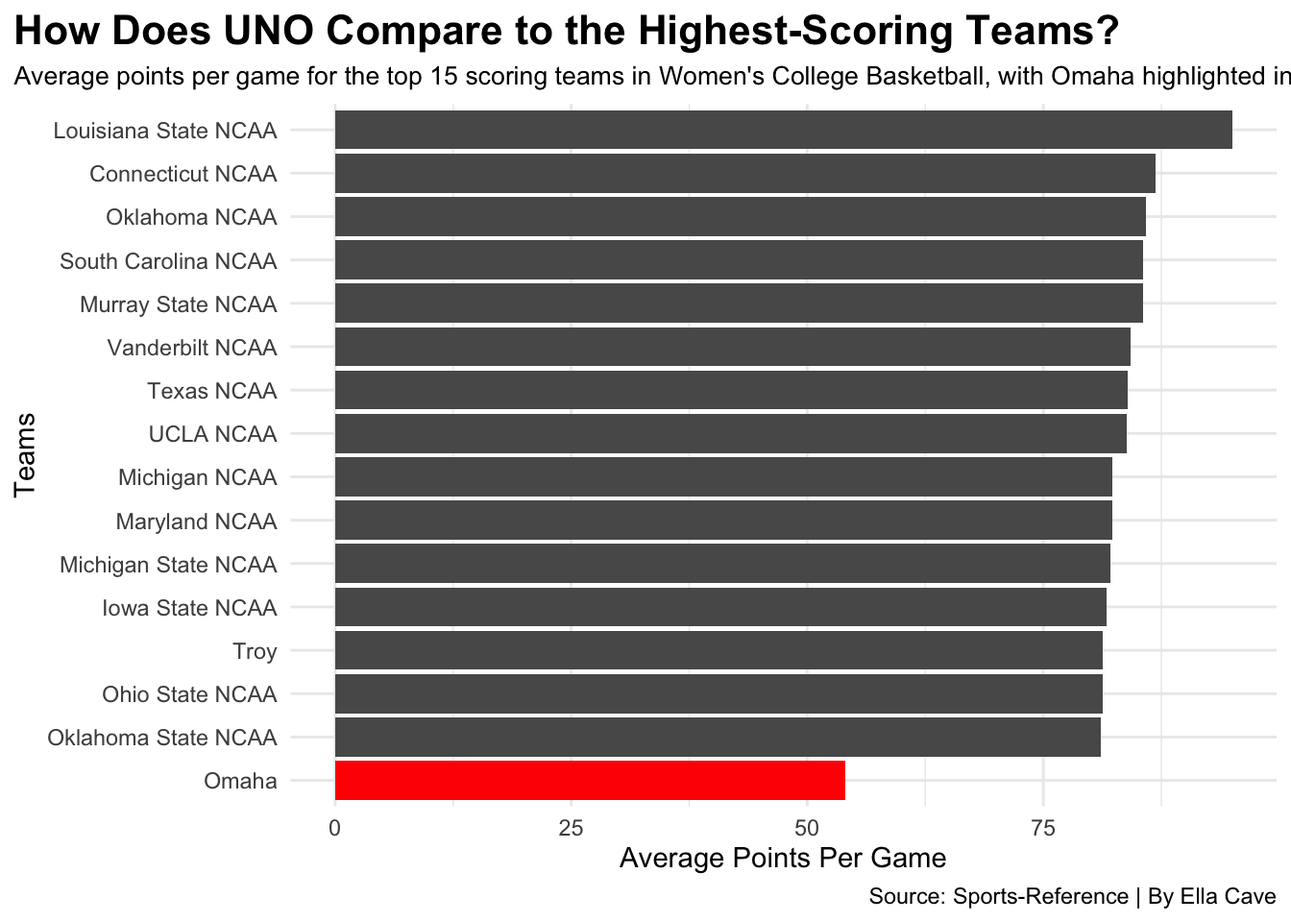
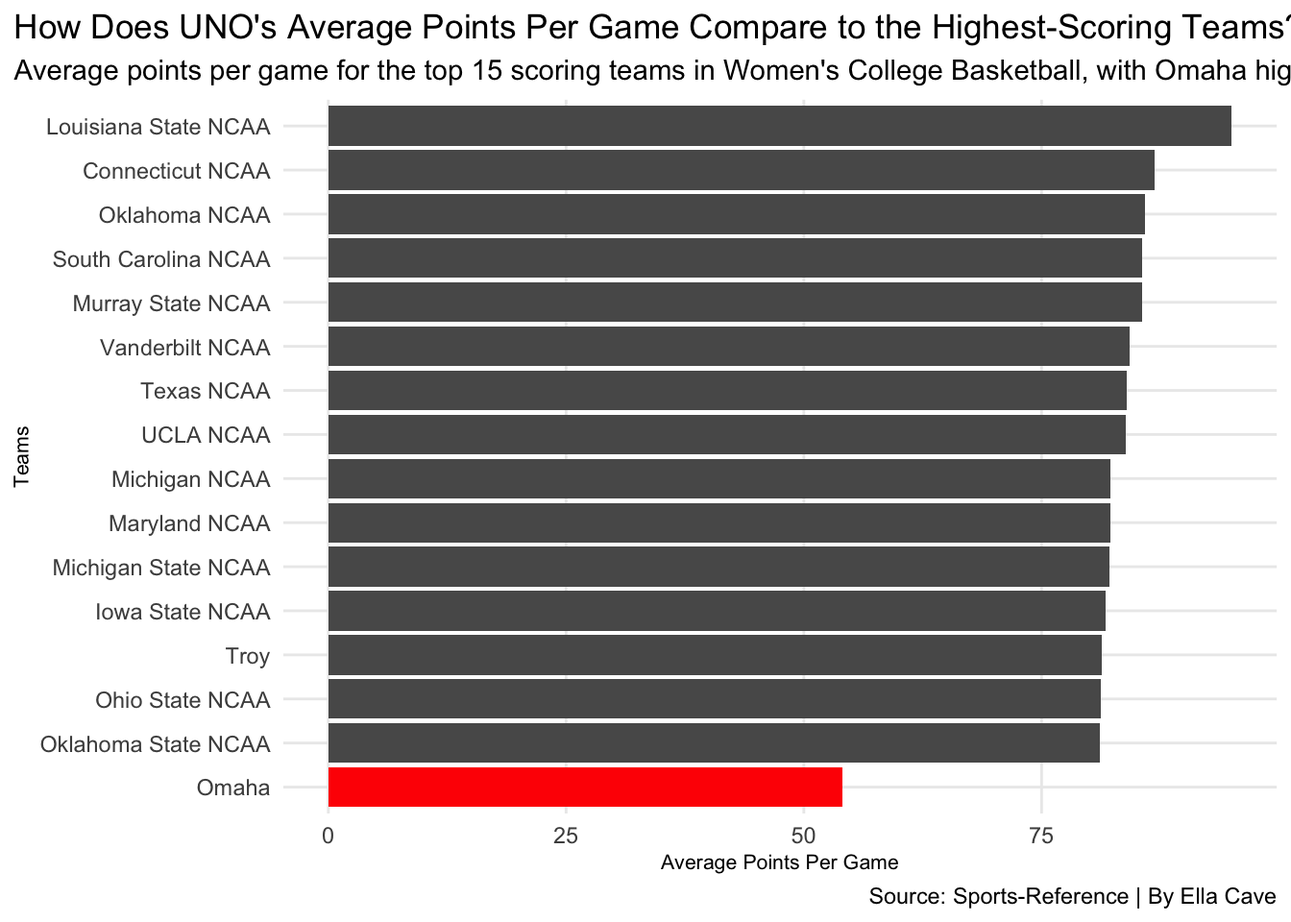
changed2

diff --git a/posts/omaha-womens-basketball/index.html b/posts/omaha-womens-basketball/index.html
@@ -387,11 +387,16 @@ pre > code.sourceCode > span > a:first-child::before { text-decoration: underlin
 ✖ dplyr::lag()    masks stats::lag()
 ℹ Use the conflicted package (&lt;http://conflicted.r-lib.org/&gt;) to force all conflicts to become errors</code></pre>
 </div>
+<details class="code-fold">
+<summary>Code</summary>
+<div class="code-copy-outer-scaffold"><div class="sourceCode cell-code" id="cb3"><pre class="sourceCode r code-with-copy"><code class="sourceCode r"><span id="cb3-1"><a href="#cb3-1" aria-hidden="true" tabindex="-1"></a><span class="fu">library</span>(ggalt)</span>
+<span id="cb3-2"><a href="#cb3-2" aria-hidden="true" tabindex="-1"></a><span class="fu">library</span>(ggrepel)</span></code></pre></div><button title="Copy to Clipboard" class="code-copy-button"><i class="bi"></i></button></div>
+</details>
 </div>
 <div class="cell">
 <details class="code-fold">
 <summary>Code</summary>
-<div class="code-copy-outer-scaffold"><div class="sourceCode cell-code" id="cb3"><pre class="sourceCode r code-with-copy"><code class="sourceCode r"><span id="cb3-1"><a href="#cb3-1" aria-hidden="true" tabindex="-1"></a>wcbb_25_26 <span class="ot">&lt;-</span> <span class="fu">read_csv</span>(<span class="st">"data/wcbb_stats_25_26.csv"</span>)</span></code></pre></div><button title="Copy to Clipboard" class="code-copy-button"><i class="bi"></i></button></div>
+<div class="code-copy-outer-scaffold"><div class="sourceCode cell-code" id="cb4"><pre class="sourceCode r code-with-copy"><code class="sourceCode r"><span id="cb4-1"><a href="#cb4-1" aria-hidden="true" tabindex="-1"></a>wcbb_25_26 <span class="ot">&lt;-</span> <span class="fu">read_csv</span>(<span class="st">"data/wcbb_stats_25_26.csv"</span>)</span></code></pre></div><button title="Copy to Clipboard" class="code-copy-button"><i class="bi"></i></button></div>
 </details>
 <div class="cell-output cell-output-stderr">
 <pre><code>Rows: 363 Columns: 33
@@ -407,7 +412,7 @@ dbl (32): Rk, Games, Overall_Wins, Overall_Losses, Overall_Win_pct, SRS, SOS...
 <div class="cell">
 <details class="code-fold">
 <summary>Code</summary>
-<div class="code-copy-outer-scaffold"><div class="sourceCode cell-code" id="cb5"><pre class="sourceCode r code-with-copy"><code class="sourceCode r"><span id="cb5-1"><a href="#cb5-1" aria-hidden="true" tabindex="-1"></a><span class="fu">glimpse</span>(wcbb_25_26)</span></code></pre></div><button title="Copy to Clipboard" class="code-copy-button"><i class="bi"></i></button></div>
+<div class="code-copy-outer-scaffold"><div class="sourceCode cell-code" id="cb6"><pre class="sourceCode r code-with-copy"><code class="sourceCode r"><span id="cb6-1"><a href="#cb6-1" aria-hidden="true" tabindex="-1"></a><span class="fu">glimpse</span>(wcbb_25_26)</span></code></pre></div><button title="Copy to Clipboard" class="code-copy-button"><i class="bi"></i></button></div>
 </details>
 <div class="cell-output cell-output-stdout">
 <pre><code>Rows: 363
@@ -450,40 +455,40 @@ $ PF              &lt;dbl&gt; 561, 562, 666, 568, 567, 715, 439, 560, 371, 492, 
 <div class="cell">
 <details class="code-fold">
 <summary>Code</summary>
-<div class="code-copy-outer-scaffold"><div class="sourceCode cell-code" id="cb7"><pre class="sourceCode r code-with-copy"><code class="sourceCode r"><span id="cb7-1"><a href="#cb7-1" aria-hidden="true" tabindex="-1"></a>wcbb_25_26 <span class="ot">&lt;-</span> wcbb_25_26 <span class="sc">|&gt;</span></span>
-<span id="cb7-2"><a href="#cb7-2" aria-hidden="true" tabindex="-1"></a>  <span class="fu">mutate</span>(</span>
-<span id="cb7-3"><a href="#cb7-3" aria-hidden="true" tabindex="-1"></a>    <span class="at">avg_points =</span> Tm_Points <span class="sc">/</span> Games</span>
-<span id="cb7-4"><a href="#cb7-4" aria-hidden="true" tabindex="-1"></a>  )</span></code></pre></div><button title="Copy to Clipboard" class="code-copy-button"><i class="bi"></i></button></div>
+<div class="code-copy-outer-scaffold"><div class="sourceCode cell-code" id="cb8"><pre class="sourceCode r code-with-copy"><code class="sourceCode r"><span id="cb8-1"><a href="#cb8-1" aria-hidden="true" tabindex="-1"></a>wcbb_25_26 <span class="ot">&lt;-</span> wcbb_25_26 <span class="sc">|&gt;</span></span>
+<span id="cb8-2"><a href="#cb8-2" aria-hidden="true" tabindex="-1"></a>  <span class="fu">mutate</span>(</span>
+<span id="cb8-3"><a href="#cb8-3" aria-hidden="true" tabindex="-1"></a>    <span class="at">avg_points =</span> Tm_Points <span class="sc">/</span> Games</span>
+<span id="cb8-4"><a href="#cb8-4" aria-hidden="true" tabindex="-1"></a>  )</span></code></pre></div><button title="Copy to Clipboard" class="code-copy-button"><i class="bi"></i></button></div>
 </details>
 </div>
 <div class="cell">
 <details class="code-fold">
 <summary>Code</summary>
-<div class="code-copy-outer-scaffold"><div class="sourceCode cell-code" id="cb8"><pre class="sourceCode r code-with-copy"><code class="sourceCode r"><span id="cb8-1"><a href="#cb8-1" aria-hidden="true" tabindex="-1"></a>top_teams <span class="ot">&lt;-</span> wcbb_25_26 <span class="sc">|&gt;</span></span>
-<span id="cb8-2"><a href="#cb8-2" aria-hidden="true" tabindex="-1"></a>  <span class="fu">arrange</span>(<span class="fu">desc</span>(avg_points)) <span class="sc">|&gt;</span></span>
-<span id="cb8-3"><a href="#cb8-3" aria-hidden="true" tabindex="-1"></a>  <span class="fu">slice_head</span>(<span class="at">n=</span><span class="dv">15</span>)</span></code></pre></div><button title="Copy to Clipboard" class="code-copy-button"><i class="bi"></i></button></div>
+<div class="code-copy-outer-scaffold"><div class="sourceCode cell-code" id="cb9"><pre class="sourceCode r code-with-copy"><code class="sourceCode r"><span id="cb9-1"><a href="#cb9-1" aria-hidden="true" tabindex="-1"></a>top_teams <span class="ot">&lt;-</span> wcbb_25_26 <span class="sc">|&gt;</span></span>
+<span id="cb9-2"><a href="#cb9-2" aria-hidden="true" tabindex="-1"></a>  <span class="fu">arrange</span>(<span class="fu">desc</span>(avg_points)) <span class="sc">|&gt;</span></span>
+<span id="cb9-3"><a href="#cb9-3" aria-hidden="true" tabindex="-1"></a>  <span class="fu">slice_head</span>(<span class="at">n=</span><span class="dv">15</span>)</span></code></pre></div><button title="Copy to Clipboard" class="code-copy-button"><i class="bi"></i></button></div>
 </details>
 </div>
 <div class="cell">
 <details class="code-fold">
 <summary>Code</summary>
-<div class="code-copy-outer-scaffold"><div class="sourceCode cell-code" id="cb9"><pre class="sourceCode r code-with-copy"><code class="sourceCode r"><span id="cb9-1"><a href="#cb9-1" aria-hidden="true" tabindex="-1"></a>uno <span class="ot">&lt;-</span> wcbb_25_26 <span class="sc">|&gt;</span> </span>
-<span id="cb9-2"><a href="#cb9-2" aria-hidden="true" tabindex="-1"></a>  <span class="fu">filter</span>(</span>
-<span id="cb9-3"><a href="#cb9-3" aria-hidden="true" tabindex="-1"></a>    School <span class="sc">==</span> <span class="st">"Omaha"</span></span>
-<span id="cb9-4"><a href="#cb9-4" aria-hidden="true" tabindex="-1"></a>  )</span></code></pre></div><button title="Copy to Clipboard" class="code-copy-button"><i class="bi"></i></button></div>
+<div class="code-copy-outer-scaffold"><div class="sourceCode cell-code" id="cb10"><pre class="sourceCode r code-with-copy"><code class="sourceCode r"><span id="cb10-1"><a href="#cb10-1" aria-hidden="true" tabindex="-1"></a>uno <span class="ot">&lt;-</span> wcbb_25_26 <span class="sc">|&gt;</span> </span>
+<span id="cb10-2"><a href="#cb10-2" aria-hidden="true" tabindex="-1"></a>  <span class="fu">filter</span>(</span>
+<span id="cb10-3"><a href="#cb10-3" aria-hidden="true" tabindex="-1"></a>    School <span class="sc">==</span> <span class="st">"Omaha"</span></span>
+<span id="cb10-4"><a href="#cb10-4" aria-hidden="true" tabindex="-1"></a>  )</span></code></pre></div><button title="Copy to Clipboard" class="code-copy-button"><i class="bi"></i></button></div>
 </details>
 </div>
 <div class="cell">
 <details class="code-fold">
 <summary>Code</summary>
-<div class="code-copy-outer-scaffold"><div class="sourceCode cell-code" id="cb10"><pre class="sourceCode r code-with-copy"><code class="sourceCode r"><span id="cb10-1"><a href="#cb10-1" aria-hidden="true" tabindex="-1"></a>top_teams <span class="ot">&lt;-</span> <span class="fu">bind_rows</span>(top_teams, uno)</span></code></pre></div><button title="Copy to Clipboard" class="code-copy-button"><i class="bi"></i></button></div>
+<div class="code-copy-outer-scaffold"><div class="sourceCode cell-code" id="cb11"><pre class="sourceCode r code-with-copy"><code class="sourceCode r"><span id="cb11-1"><a href="#cb11-1" aria-hidden="true" tabindex="-1"></a>top_teams <span class="ot">&lt;-</span> <span class="fu">bind_rows</span>(top_teams, uno)</span></code></pre></div><button title="Copy to Clipboard" class="code-copy-button"><i class="bi"></i></button></div>
 </details>
 </div>
 <div class="cell">
 <details class="code-fold">
 <summary>Code</summary>
-<div class="code-copy-outer-scaffold"><div class="sourceCode cell-code" id="cb11"><pre class="sourceCode r code-with-copy"><code class="sourceCode r"><span id="cb11-1"><a href="#cb11-1" aria-hidden="true" tabindex="-1"></a><span class="fu">ggplot</span>() <span class="sc">+</span> </span>
-<span id="cb11-2"><a href="#cb11-2" aria-hidden="true" tabindex="-1"></a>  <span class="fu">geom_bar</span>(<span class="at">data=</span>top_teams, <span class="fu">aes</span>(<span class="at">x=</span>School))</span></code></pre></div><button title="Copy to Clipboard" class="code-copy-button"><i class="bi"></i></button></div>
+<div class="code-copy-outer-scaffold"><div class="sourceCode cell-code" id="cb12"><pre class="sourceCode r code-with-copy"><code class="sourceCode r"><span id="cb12-1"><a href="#cb12-1" aria-hidden="true" tabindex="-1"></a><span class="fu">ggplot</span>() <span class="sc">+</span> </span>
+<span id="cb12-2"><a href="#cb12-2" aria-hidden="true" tabindex="-1"></a>  <span class="fu">geom_bar</span>(<span class="at">data=</span>top_teams, <span class="fu">aes</span>(<span class="at">x=</span>School))</span></code></pre></div><button title="Copy to Clipboard" class="code-copy-button"><i class="bi"></i></button></div>
 </details>
 <div class="cell-output-display">
 <div>
@@ -496,8 +501,8 @@ $ PF              &lt;dbl&gt; 561, 562, 666, 568, 567, 715, 439, 560, 371, 492, 
 <div class="cell">
 <details class="code-fold">
 <summary>Code</summary>
-<div class="code-copy-outer-scaffold"><div class="sourceCode cell-code" id="cb12"><pre class="sourceCode r code-with-copy"><code class="sourceCode r"><span id="cb12-1"><a href="#cb12-1" aria-hidden="true" tabindex="-1"></a><span class="fu">ggplot</span>() <span class="sc">+</span> </span>
-<span id="cb12-2"><a href="#cb12-2" aria-hidden="true" tabindex="-1"></a>  <span class="fu">geom_bar</span>(<span class="at">data=</span>top_teams, <span class="fu">aes</span>(<span class="at">x=</span>School, <span class="at">weight=</span>avg_points))</span></code></pre></div><button title="Copy to Clipboard" class="code-copy-button"><i class="bi"></i></button></div>
+<div class="code-copy-outer-scaffold"><div class="sourceCode cell-code" id="cb13"><pre class="sourceCode r code-with-copy"><code class="sourceCode r"><span id="cb13-1"><a href="#cb13-1" aria-hidden="true" tabindex="-1"></a><span class="fu">ggplot</span>() <span class="sc">+</span> </span>
+<span id="cb13-2"><a href="#cb13-2" aria-hidden="true" tabindex="-1"></a>  <span class="fu">geom_bar</span>(<span class="at">data=</span>top_teams, <span class="fu">aes</span>(<span class="at">x=</span>School, <span class="at">weight=</span>avg_points))</span></code></pre></div><button title="Copy to Clipboard" class="code-copy-button"><i class="bi"></i></button></div>
 </details>
 <div class="cell-output-display">
 <div>
@@ -510,8 +515,8 @@ $ PF              &lt;dbl&gt; 561, 562, 666, 568, 567, 715, 439, 560, 371, 492, 
 <div class="cell">
 <details class="code-fold">
 <summary>Code</summary>
-<div class="code-copy-outer-scaffold"><div class="sourceCode cell-code" id="cb13"><pre class="sourceCode r code-with-copy"><code class="sourceCode r"><span id="cb13-1"><a href="#cb13-1" aria-hidden="true" tabindex="-1"></a><span class="fu">ggplot</span>() <span class="sc">+</span> </span>
-<span id="cb13-2"><a href="#cb13-2" aria-hidden="true" tabindex="-1"></a>  <span class="fu">geom_bar</span>(<span class="at">data=</span>top_teams, <span class="fu">aes</span>(<span class="at">x=</span><span class="fu">reorder</span>(School, avg_points), <span class="at">weight=</span>avg_points))</span></code></pre></div><button title="Copy to Clipboard" class="code-copy-button"><i class="bi"></i></button></div>
+<div class="code-copy-outer-scaffold"><div class="sourceCode cell-code" id="cb14"><pre class="sourceCode r code-with-copy"><code class="sourceCode r"><span id="cb14-1"><a href="#cb14-1" aria-hidden="true" tabindex="-1"></a><span class="fu">ggplot</span>() <span class="sc">+</span> </span>
+<span id="cb14-2"><a href="#cb14-2" aria-hidden="true" tabindex="-1"></a>  <span class="fu">geom_bar</span>(<span class="at">data=</span>top_teams, <span class="fu">aes</span>(<span class="at">x=</span><span class="fu">reorder</span>(School, avg_points), <span class="at">weight=</span>avg_points))</span></code></pre></div><button title="Copy to Clipboard" class="code-copy-button"><i class="bi"></i></button></div>
 </details>
 <div class="cell-output-display">
 <div>
@@ -524,10 +529,10 @@ $ PF              &lt;dbl&gt; 561, 562, 666, 568, 567, 715, 439, 560, 371, 492, 
 <div class="cell">
 <details class="code-fold">
 <summary>Code</summary>
-<div class="code-copy-outer-scaffold"><div class="sourceCode cell-code" id="cb14"><pre class="sourceCode r code-with-copy"><code class="sourceCode r"><span id="cb14-1"><a href="#cb14-1" aria-hidden="true" tabindex="-1"></a><span class="fu">ggplot</span>() <span class="sc">+</span> </span>
-<span id="cb14-2"><a href="#cb14-2" aria-hidden="true" tabindex="-1"></a>  <span class="fu">geom_bar</span>(<span class="at">data=</span>top_teams, <span class="fu">aes</span>(<span class="at">x=</span><span class="fu">reorder</span>(School, avg_points), <span class="at">weight=</span>avg_points)) <span class="sc">+</span></span>
-<span id="cb14-3"><a href="#cb14-3" aria-hidden="true" tabindex="-1"></a>  <span class="fu">geom_bar</span>(<span class="at">data=</span>uno, <span class="fu">aes</span>(<span class="at">x=</span><span class="fu">reorder</span>(School, avg_points), <span class="at">weight=</span>avg_points), <span class="at">fill=</span><span class="st">"red"</span>) <span class="sc">+</span></span>
-<span id="cb14-4"><a href="#cb14-4" aria-hidden="true" tabindex="-1"></a>  <span class="fu">coord_flip</span>()</span></code></pre></div><button title="Copy to Clipboard" class="code-copy-button"><i class="bi"></i></button></div>
+<div class="code-copy-outer-scaffold"><div class="sourceCode cell-code" id="cb15"><pre class="sourceCode r code-with-copy"><code class="sourceCode r"><span id="cb15-1"><a href="#cb15-1" aria-hidden="true" tabindex="-1"></a><span class="fu">ggplot</span>() <span class="sc">+</span> </span>
+<span id="cb15-2"><a href="#cb15-2" aria-hidden="true" tabindex="-1"></a>  <span class="fu">geom_bar</span>(<span class="at">data=</span>top_teams, <span class="fu">aes</span>(<span class="at">x=</span><span class="fu">reorder</span>(School, avg_points), <span class="at">weight=</span>avg_points)) <span class="sc">+</span></span>
+<span id="cb15-3"><a href="#cb15-3" aria-hidden="true" tabindex="-1"></a>  <span class="fu">geom_bar</span>(<span class="at">data=</span>uno, <span class="fu">aes</span>(<span class="at">x=</span><span class="fu">reorder</span>(School, avg_points), <span class="at">weight=</span>avg_points), <span class="at">fill=</span><span class="st">"red"</span>) <span class="sc">+</span></span>
+<span id="cb15-4"><a href="#cb15-4" aria-hidden="true" tabindex="-1"></a>  <span class="fu">coord_flip</span>()</span></code></pre></div><button title="Copy to Clipboard" class="code-copy-button"><i class="bi"></i></button></div>
 </details>
 <div class="cell-output-display">
 <div>
@@ -540,23 +545,23 @@ $ PF              &lt;dbl&gt; 561, 562, 666, 568, 567, 715, 439, 560, 371, 492, 
 <div class="cell">
 <details class="code-fold">
 <summary>Code</summary>
-<div class="code-copy-outer-scaffold"><div class="sourceCode cell-code" id="cb15"><pre class="sourceCode r code-with-copy"><code class="sourceCode r"><span id="cb15-1"><a href="#cb15-1" aria-hidden="true" tabindex="-1"></a><span class="fu">ggplot</span>() <span class="sc">+</span> </span>
-<span id="cb15-2"><a href="#cb15-2" aria-hidden="true" tabindex="-1"></a>  <span class="fu">geom_bar</span>(<span class="at">data=</span>top_teams, <span class="fu">aes</span>(<span class="at">x=</span><span class="fu">reorder</span>(School, avg_points), <span class="at">weight=</span>avg_points)) <span class="sc">+</span></span>
-<span id="cb15-3"><a href="#cb15-3" aria-hidden="true" tabindex="-1"></a>  <span class="fu">geom_bar</span>(<span class="at">data=</span>uno, <span class="fu">aes</span>(<span class="at">x=</span><span class="fu">reorder</span>(School, avg_points), <span class="at">weight=</span>avg_points), <span class="at">fill=</span><span class="st">"red"</span>) <span class="sc">+</span></span>
-<span id="cb15-4"><a href="#cb15-4" aria-hidden="true" tabindex="-1"></a>  <span class="fu">coord_flip</span>() <span class="sc">+</span></span>
-<span id="cb15-5"><a href="#cb15-5" aria-hidden="true" tabindex="-1"></a>  <span class="fu">theme_minimal</span>() <span class="sc">+</span> </span>
-<span id="cb15-6"><a href="#cb15-6" aria-hidden="true" tabindex="-1"></a>  <span class="fu">labs</span>(</span>
-<span id="cb15-7"><a href="#cb15-7" aria-hidden="true" tabindex="-1"></a>    <span class="at">x=</span><span class="st">"Teams"</span>, </span>
-<span id="cb15-8"><a href="#cb15-8" aria-hidden="true" tabindex="-1"></a>    <span class="at">y=</span><span class="st">"Average Points Per Game"</span>, </span>
-<span id="cb15-9"><a href="#cb15-9" aria-hidden="true" tabindex="-1"></a>    <span class="at">title=</span><span class="st">"How Does UNO Compare to the Highest-Scoring Teams?"</span>, </span>
-<span id="cb15-10"><a href="#cb15-10" aria-hidden="true" tabindex="-1"></a>    <span class="at">subtitle=</span><span class="st">"Average points per game for the top 15 scoring teams in Women's College Basketball, with Omaha highlighted in red."</span>, </span>
-<span id="cb15-11"><a href="#cb15-11" aria-hidden="true" tabindex="-1"></a>    <span class="at">caption=</span><span class="st">"Source: Sports-Reference | By Ella Cave"</span></span>
-<span id="cb15-12"><a href="#cb15-12" aria-hidden="true" tabindex="-1"></a>    ) <span class="sc">+</span></span>
-<span id="cb15-13"><a href="#cb15-13" aria-hidden="true" tabindex="-1"></a>  <span class="fu">theme</span>(</span>
-<span id="cb15-14"><a href="#cb15-14" aria-hidden="true" tabindex="-1"></a>    <span class="at">plot.title.position =</span> <span class="st">"plot"</span>,</span>
-<span id="cb15-15"><a href="#cb15-15" aria-hidden="true" tabindex="-1"></a>    <span class="at">plot.title =</span> <span class="fu">element_text</span>(<span class="at">face =</span> <span class="st">"bold"</span>, <span class="at">size =</span> <span class="dv">16</span>),</span>
-<span id="cb15-16"><a href="#cb15-16" aria-hidden="true" tabindex="-1"></a>    <span class="at">plot.subtitle =</span> <span class="fu">element_text</span>(<span class="at">size =</span> <span class="dv">10</span>)</span>
-<span id="cb15-17"><a href="#cb15-17" aria-hidden="true" tabindex="-1"></a>  )</span></code></pre></div><button title="Copy to Clipboard" class="code-copy-button"><i class="bi"></i></button></div>
+<div class="code-copy-outer-scaffold"><div class="sourceCode cell-code" id="cb16"><pre class="sourceCode r code-with-copy"><code class="sourceCode r"><span id="cb16-1"><a href="#cb16-1" aria-hidden="true" tabindex="-1"></a><span class="fu">ggplot</span>() <span class="sc">+</span> </span>
+<span id="cb16-2"><a href="#cb16-2" aria-hidden="true" tabindex="-1"></a>  <span class="fu">geom_bar</span>(<span class="at">data=</span>top_teams, <span class="fu">aes</span>(<span class="at">x=</span><span class="fu">reorder</span>(School, avg_points), <span class="at">weight=</span>avg_points)) <span class="sc">+</span></span>
+<span id="cb16-3"><a href="#cb16-3" aria-hidden="true" tabindex="-1"></a>  <span class="fu">geom_bar</span>(<span class="at">data=</span>uno, <span class="fu">aes</span>(<span class="at">x=</span><span class="fu">reorder</span>(School, avg_points), <span class="at">weight=</span>avg_points), <span class="at">fill=</span><span class="st">"red"</span>) <span class="sc">+</span></span>
+<span id="cb16-4"><a href="#cb16-4" aria-hidden="true" tabindex="-1"></a>  <span class="fu">coord_flip</span>() <span class="sc">+</span></span>
+<span id="cb16-5"><a href="#cb16-5" aria-hidden="true" tabindex="-1"></a>  <span class="fu">theme_minimal</span>() <span class="sc">+</span> </span>
+<span id="cb16-6"><a href="#cb16-6" aria-hidden="true" tabindex="-1"></a>  <span class="fu">labs</span>(</span>
+<span id="cb16-7"><a href="#cb16-7" aria-hidden="true" tabindex="-1"></a>    <span class="at">x=</span><span class="st">"Teams"</span>, </span>
+<span id="cb16-8"><a href="#cb16-8" aria-hidden="true" tabindex="-1"></a>    <span class="at">y=</span><span class="st">"Average Points Per Game"</span>, </span>
+<span id="cb16-9"><a href="#cb16-9" aria-hidden="true" tabindex="-1"></a>    <span class="at">title=</span><span class="st">"How Does UNO's Average Points Per Game Compare to the Highest-Scoring Teams?"</span>, </span>
+<span id="cb16-10"><a href="#cb16-10" aria-hidden="true" tabindex="-1"></a>    <span class="at">subtitle=</span><span class="st">"Average points per game for the top 15 scoring teams in Women's College Basketball, with Omaha highlighted in red."</span>, </span>
+<span id="cb16-11"><a href="#cb16-11" aria-hidden="true" tabindex="-1"></a>    <span class="at">caption=</span><span class="st">"Source: Sports-Reference | By Ella Cave"</span></span>
+<span id="cb16-12"><a href="#cb16-12" aria-hidden="true" tabindex="-1"></a>    ) <span class="sc">+</span></span>
+<span id="cb16-13"><a href="#cb16-13" aria-hidden="true" tabindex="-1"></a>  <span class="fu">theme</span>(</span>
+<span id="cb16-14"><a href="#cb16-14" aria-hidden="true" tabindex="-1"></a>    <span class="at">axis.title =</span> <span class="fu">element_text</span>(<span class="at">size=</span><span class="dv">8</span>),</span>
+<span id="cb16-15"><a href="#cb16-15" aria-hidden="true" tabindex="-1"></a>    <span class="at">panel.grid.minor =</span> <span class="fu">element_blank</span>(),</span>
+<span id="cb16-16"><a href="#cb16-16" aria-hidden="true" tabindex="-1"></a>    <span class="at">plot.title.position =</span> <span class="st">"plot"</span></span>
+<span id="cb16-17"><a href="#cb16-17" aria-hidden="true" tabindex="-1"></a>  )</span></code></pre></div><button title="Copy to Clipboard" class="code-copy-button"><i class="bi"></i></button></div>
 </details>
 <div class="cell-output-display">
 <div>
@@ -566,53 +571,155 @@ $ PF              &lt;dbl&gt; 561, 562, 666, 568, 567, 715, 439, 560, 371, 492, 
 </div>
 </div>
 </div>
-<p>If you look at the chart above, you can see that there’s a big difference between the top 15 scoring teams and UNO. The top teams are averaging 75 + points per game, and UNO is averaging a little more than 50. This chart shows that UNO scores a lot less per game than the top 15 teams. As I said before scoring does help team win games, but doesn’t mean they are successful all together. Before we think of everything all together, let’s look at a scatterplot comparing UNO’s and the top 15 teams average points scored and average points allowed. This will show whether they have strong defenses and offenses when they win.</p>
+<p>If you look at the chart above, you can see that there’s a big difference between the top 15 scoring teams and UNO. The top teams are averaging 75 + points per game, and UNO is averaging a little more than 50. This chart shows that UNO scores a lot less per game than the top 15 teams. As I said before scoring does help team win games, but doesn’t mean they are successful all together. Before we think of everything all together, let’s look at a scatterplot comparing UNO’s and the top 15 teams average points scored and average points allowed. This will show whether they have strong defenses and offenses.</p>
 <div class="cell">
 <details class="code-fold">
 <summary>Code</summary>
-<div class="code-copy-outer-scaffold"><div class="sourceCode cell-code" id="cb16"><pre class="sourceCode r code-with-copy"><code class="sourceCode r"><span id="cb16-1"><a href="#cb16-1" aria-hidden="true" tabindex="-1"></a><span class="fu">library</span>(tidyverse)</span></code></pre></div><button title="Copy to Clipboard" class="code-copy-button"><i class="bi"></i></button></div>
+<div class="code-copy-outer-scaffold"><div class="sourceCode cell-code" id="cb17"><pre class="sourceCode r code-with-copy"><code class="sourceCode r"><span id="cb17-1"><a href="#cb17-1" aria-hidden="true" tabindex="-1"></a><span class="fu">library</span>(tidyverse)</span>
+<span id="cb17-2"><a href="#cb17-2" aria-hidden="true" tabindex="-1"></a>uno <span class="ot">&lt;-</span> <span class="fu">read_csv</span>(<span class="st">"data/uno_wbb_stats.csv"</span>)</span></code></pre></div><button title="Copy to Clipboard" class="code-copy-button"><i class="bi"></i></button></div>
 </details>
 </div>
 <div class="cell">
 <details class="code-fold">
 <summary>Code</summary>
-<div class="code-copy-outer-scaffold"><div class="sourceCode cell-code" id="cb17"><pre class="sourceCode r code-with-copy"><code class="sourceCode r"><span id="cb17-1"><a href="#cb17-1" aria-hidden="true" tabindex="-1"></a>uno <span class="ot">&lt;-</span> <span class="fu">read_csv</span>(<span class="st">"data/uno_wbb_stats.csv"</span>)</span></code></pre></div><button title="Copy to Clipboard" class="code-copy-button"><i class="bi"></i></button></div>
-</details>
-<div class="cell-output cell-output-stderr">
-<pre><code>Rows: 14 Columns: 14
-── Column specification ────────────────────────────────────────────────────────
-Delimiter: ","
-chr  (3): Season, Conf, Coach(es)
-dbl (11): Rk, Overall_W, Overall_L, Overall_pct, Conf_W, Conf_L, Conf_pct, S...
-
-ℹ Use `spec()` to retrieve the full column specification for this data.
-ℹ Specify the column types or set `show_col_types = FALSE` to quiet this message.</code></pre>
-</div>
-</div>
-<div class="cell">
-<details class="code-fold">
-<summary>Code</summary>
-<div class="code-copy-outer-scaffold"><div class="sourceCode cell-code" id="cb19"><pre class="sourceCode r code-with-copy"><code class="sourceCode r"><span id="cb19-1"><a href="#cb19-1" aria-hidden="true" tabindex="-1"></a><span class="fu">head</span>(uno)</span></code></pre></div><button title="Copy to Clipboard" class="code-copy-button"><i class="bi"></i></button></div>
+<div class="code-copy-outer-scaffold"><div class="sourceCode cell-code" id="cb18"><pre class="sourceCode r code-with-copy"><code class="sourceCode r"><span id="cb18-1"><a href="#cb18-1" aria-hidden="true" tabindex="-1"></a><span class="fu">glimpse</span>(wcbb_25_26)</span></code></pre></div><button title="Copy to Clipboard" class="code-copy-button"><i class="bi"></i></button></div>
 </details>
 <div class="cell-output cell-output-stdout">
-<pre><code># A tibble: 6 × 14
-     Rk Season  Conf   Overall_W Overall_L Overall_pct Conf_W Conf_L Conf_pct
-  &lt;dbl&gt; &lt;chr&gt;   &lt;chr&gt;      &lt;dbl&gt;     &lt;dbl&gt;       &lt;dbl&gt;  &lt;dbl&gt;  &lt;dbl&gt;    &lt;dbl&gt;
-1     1 2025-26 Summit         6        27       0.182      3     13    0.188
-2     2 2024-25 Summit        14        17       0.452      5     11    0.313
-3     3 2023-24 Summit         8        23       0.258      3     13    0.188
-4     4 2022-23 Summit        15        17       0.469      8     10    0.444
-5     5 2021-22 Summit         7        19       0.269      3     14    0.176
-6     6 2020-21 Summit         7        13       0.35       4      8    0.333
-# ℹ 5 more variables: SRS &lt;dbl&gt;, SOS &lt;dbl&gt;, points_scored_pg &lt;dbl&gt;,
-#   points_allowed_pg &lt;dbl&gt;, `Coach(es)` &lt;chr&gt;</code></pre>
+<pre><code>Rows: 363
+Columns: 34
+$ Rk              &lt;dbl&gt; 1, 2, 3, 4, 5, 6, 7, 8, 9, 10, 11, 12, 13, 14, 15, 16,…
+$ School          &lt;chr&gt; "Abilene Christian", "Air Force", "Akron", "Alabama NC…
+$ Games           &lt;dbl&gt; 35, 35, 31, 35, 33, 32, 30, 31, 30, 30, 30, 35, 32, 37…
+$ Overall_Wins    &lt;dbl&gt; 24, 16, 7, 24, 22, 17, 14, 17, 7, 11, 12, 24, 12, 27, …
+$ Overall_Losses  &lt;dbl&gt; 11, 19, 24, 11, 11, 15, 16, 14, 23, 19, 18, 11, 20, 10…
+$ Overall_Win_pct &lt;dbl&gt; 0.686, 0.457, 0.226, 0.686, 0.667, 0.531, 0.467, 0.548…
+$ SRS             &lt;dbl&gt; 2.97, -4.20, -12.78, 25.44, -7.38, -17.33, -4.60, -16.…
+$ SOS             &lt;dbl&gt; -3.59, -0.99, 0.05, 17.02, -9.41, -9.50, -5.22, -10.55…
+$ Conf_Wins       &lt;dbl&gt; 13, 7, 4, 7, 17, 12, 4, 14, 5, 4, 3, 9, 1, 14, 10, 14,…
+$ Conf_Losses     &lt;dbl&gt; 5, 13, 14, 9, 1, 6, 12, 4, 13, 14, 15, 9, 15, 4, 8, 4,…
+$ Home_Wins       &lt;dbl&gt; 15, 8, 5, 16, 13, 8, 9, 10, 4, 8, 12, 15, 9, 15, 8, 15…
+$ Home_Losses     &lt;dbl&gt; 2, 6, 10, 4, 1, 4, 5, 4, 10, 7, 8, 2, 9, 3, 3, 2, 7, 1…
+$ Away_Wins       &lt;dbl&gt; 8, 4, 1, 3, 7, 7, 5, 7, 3, 3, 0, 7, 1, 9, 12, 11, 3, 1…
+$ Away_Losses     &lt;dbl&gt; 5, 12, 13, 6, 6, 9, 11, 7, 13, 11, 9, 7, 10, 6, NA, 6,…
+$ Tm_Points       &lt;dbl&gt; 2505, 2108, 2156, 2450, 2038, 1934, 1728, 1783, 1671, …
+$ Opp_Points      &lt;dbl&gt; 2115, 2216, 2410, 2155, 1864, 2121, 1657, 1868, 1989, …
+$ MP              &lt;dbl&gt; 1405, 1405, 1265, 1400, 1324, 1286, 1220, 1244, 1210, …
+$ FG              &lt;dbl&gt; 888, 760, 752, 882, 702, 716, 646, 648, 598, 696, 775,…
+$ FGA             &lt;dbl&gt; 2084.000, 2118.000, 1854.000, 1998.000, 1778.000, 1848…
+$ FG_pct          &lt;dbl&gt; 0.426, 0.359, 0.406, 0.441, 0.395, 0.387, 0.432, 0.371…
+$ `3P`            &lt;dbl&gt; 276, 195, 236, 286, 123, 127, 174, 177, 185, 180, 127,…
+$ `3PA`           &lt;dbl&gt; 881.000, 702.000, 767.000, 785.000, 477.000, 483.000, …
+$ `3P_pct`        &lt;dbl&gt; 0.313, 0.278, 0.308, 0.364, 0.258, 0.263, 0.337, 0.298…
+$ FT              &lt;dbl&gt; 453, 393, 416, 400, 511, 375, 262, 310, 290, 307, 417,…
+$ FTA             &lt;dbl&gt; 593.000, 545.000, 596.000, 552.000, 765.000, 620.000, …
+$ FT_pct          &lt;dbl&gt; 0.764, 0.721, 0.698, 0.725, 0.668, 0.605, 0.688, 0.640…
+$ ORB             &lt;dbl&gt; 426, 420, 341, 354, 441, 464, 277, 359, 281, 311, 226,…
+$ TRB             &lt;dbl&gt; 1219, 1190, 1104, 1276, 1253, 1345, 952, 1099, 1028, 1…
+$ AST             &lt;dbl&gt; 497, 396, 382, 479, 353, 339, 400, 424, 350, 424, 441,…
+$ STL             &lt;dbl&gt; 385, 300, 201, 268, 312, 309, 183, 305, 167, 204, 288,…
+$ BLK             &lt;dbl&gt; 69, 76, 71, 161, 97, 84, 61, 77, 61, 63, 73, 99, 107, …
+$ TOV             &lt;dbl&gt; 528, 451, 584, 522, 632, 755, 453, 577, 451, 479, 492,…
+$ PF              &lt;dbl&gt; 561, 562, 666, 568, 567, 715, 439, 560, 371, 492, 621,…
+$ avg_points      &lt;dbl&gt; 71.57143, 60.22857, 69.54839, 70.00000, 61.75758, 60.4…</code></pre>
+</div>
+<details class="code-fold">
+<summary>Code</summary>
+<div class="code-copy-outer-scaffold"><div class="sourceCode cell-code" id="cb20"><pre class="sourceCode r code-with-copy"><code class="sourceCode r"><span id="cb20-1"><a href="#cb20-1" aria-hidden="true" tabindex="-1"></a><span class="fu">glimpse</span>(uno)</span></code></pre></div><button title="Copy to Clipboard" class="code-copy-button"><i class="bi"></i></button></div>
+</details>
+<div class="cell-output cell-output-stdout">
+<pre><code>Rows: 14
+Columns: 14
+$ Rk                &lt;dbl&gt; 1, 2, 3, 4, 5, 6, 7, 8, 9, 10, 11, 12, 13, 14
+$ Season            &lt;chr&gt; "2025-26", "2024-25", "2023-24", "2022-23", "2021-22…
+$ Conf              &lt;chr&gt; "Summit", "Summit", "Summit", "Summit", "Summit", "S…
+$ Overall_W         &lt;dbl&gt; 6, 14, 8, 15, 7, 7, 7, 8, 12, 16, 15, 10, 12, 17
+$ Overall_L         &lt;dbl&gt; 27, 17, 23, 17, 19, 13, 23, 21, 16, 15, 15, 18, 16, …
+$ Overall_pct       &lt;dbl&gt; 0.182, 0.452, 0.258, 0.469, 0.269, 0.350, 0.233, 0.2…
+$ Conf_W            &lt;dbl&gt; 3, 5, 3, 8, 3, 4, 2, 2, 3, 8, 7, 5, 4, 7
+$ Conf_L            &lt;dbl&gt; 13, 11, 13, 10, 14, 8, 14, 14, 11, 8, 9, 11, 10, 9
+$ Conf_pct          &lt;dbl&gt; 0.188, 0.313, 0.188, 0.444, 0.176, 0.333, 0.125, 0.1…
+$ SRS               &lt;dbl&gt; -25.38, -9.53, -13.41, -10.19, -7.08, -4.07, -11.83,…
+$ SOS               &lt;dbl&gt; -0.45, -0.08, -2.17, -2.66, 2.20, 2.74, 0.39, -2.22,…
+$ points_scored_pg  &lt;dbl&gt; 54.1, 67.7, 72.3, 66.1, 57.2, 61.9, 60.0, 59.8, 63.8…
+$ points_allowed_pg &lt;dbl&gt; 76.0, 73.5, 81.2, 70.6, 65.0, 68.7, 69.0, 66.4, 72.8…
+$ `Coach(es)`       &lt;chr&gt; "Jamie Carey (6-27)", "Carrie Banks (14-17)", "Carri…</code></pre>
 </div>
 </div>
 <div class="cell">
 <details class="code-fold">
 <summary>Code</summary>
-<div class="code-copy-outer-scaffold"><div class="sourceCode cell-code" id="cb21"><pre class="sourceCode r code-with-copy"><code class="sourceCode r"><span id="cb21-1"><a href="#cb21-1" aria-hidden="true" tabindex="-1"></a>avg_pts_pg <span class="ot">&lt;-</span> uno <span class="sc">|&gt;</span> <span class="fu">mutate</span>(Overall_W <span class="sc">+</span> Overall_L <span class="sc">/</span>points_scored_pg)</span></code></pre></div><button title="Copy to Clipboard" class="code-copy-button"><i class="bi"></i></button></div>
+<div class="code-copy-outer-scaffold"><div class="sourceCode cell-code" id="cb22"><pre class="sourceCode r code-with-copy"><code class="sourceCode r"><span id="cb22-1"><a href="#cb22-1" aria-hidden="true" tabindex="-1"></a>uno <span class="ot">&lt;-</span> uno <span class="sc">|&gt;</span></span>
+<span id="cb22-2"><a href="#cb22-2" aria-hidden="true" tabindex="-1"></a>  <span class="fu">filter</span>(Season <span class="sc">==</span> <span class="st">"2025-26"</span>)</span></code></pre></div><button title="Copy to Clipboard" class="code-copy-button"><i class="bi"></i></button></div>
 </details>
+</div>
+<div class="cell">
+<details class="code-fold">
+<summary>Code</summary>
+<div class="code-copy-outer-scaffold"><div class="sourceCode cell-code" id="cb23"><pre class="sourceCode r code-with-copy"><code class="sourceCode r"><span id="cb23-1"><a href="#cb23-1" aria-hidden="true" tabindex="-1"></a>top_teams <span class="ot">&lt;-</span> top_teams <span class="sc">|&gt;</span></span>
+<span id="cb23-2"><a href="#cb23-2" aria-hidden="true" tabindex="-1"></a>  <span class="fu">mutate</span>(</span>
+<span id="cb23-3"><a href="#cb23-3" aria-hidden="true" tabindex="-1"></a>    <span class="at">avg_points_allowed =</span> Opp_Points <span class="sc">/</span> Games</span>
+<span id="cb23-4"><a href="#cb23-4" aria-hidden="true" tabindex="-1"></a>  )</span></code></pre></div><button title="Copy to Clipboard" class="code-copy-button"><i class="bi"></i></button></div>
+</details>
+</div>
+<div class="cell">
+<details class="code-fold">
+<summary>Code</summary>
+<div class="code-copy-outer-scaffold"><div class="sourceCode cell-code" id="cb24"><pre class="sourceCode r code-with-copy"><code class="sourceCode r"><span id="cb24-1"><a href="#cb24-1" aria-hidden="true" tabindex="-1"></a><span class="fu">ggplot</span>() <span class="sc">+</span> </span>
+<span id="cb24-2"><a href="#cb24-2" aria-hidden="true" tabindex="-1"></a>  <span class="fu">geom_point</span>(<span class="at">data=</span>top_teams, <span class="fu">aes</span>(<span class="at">x=</span>avg_points, <span class="at">y=</span>avg_points_allowed)) <span class="sc">+</span></span>
+<span id="cb24-3"><a href="#cb24-3" aria-hidden="true" tabindex="-1"></a>  <span class="fu">geom_point</span>(<span class="at">data=</span>uno, <span class="fu">aes</span>(<span class="at">x=</span>points_scored_pg, <span class="at">y=</span>points_allowed_pg))</span></code></pre></div><button title="Copy to Clipboard" class="code-copy-button"><i class="bi"></i></button></div>
+</details>
+<div class="cell-output-display">
+<div>
+<figure class="figure">
+<p><img src="index_files/figure-html/unnamed-chunk-17-1.png" class="img-fluid figure-img" width="672"></p>
+</figure>
+</div>
+</div>
+</div>
+<div class="cell">
+<details class="code-fold">
+<summary>Code</summary>
+<div class="code-copy-outer-scaffold"><div class="sourceCode cell-code" id="cb25"><pre class="sourceCode r code-with-copy"><code class="sourceCode r"><span id="cb25-1"><a href="#cb25-1" aria-hidden="true" tabindex="-1"></a><span class="fu">ggplot</span>() <span class="sc">+</span> </span>
+<span id="cb25-2"><a href="#cb25-2" aria-hidden="true" tabindex="-1"></a>  <span class="fu">geom_point</span>(<span class="at">data=</span>top_teams, <span class="fu">aes</span>(<span class="at">x=</span>avg_points, <span class="at">y=</span>avg_points_allowed)) <span class="sc">+</span></span>
+<span id="cb25-3"><a href="#cb25-3" aria-hidden="true" tabindex="-1"></a>  <span class="fu">geom_point</span>(<span class="at">data=</span>uno, <span class="fu">aes</span>(<span class="at">x=</span>points_scored_pg, <span class="at">y=</span>points_allowed_pg), <span class="at">color=</span><span class="st">"red"</span>, <span class="at">size=</span><span class="dv">3</span>)</span></code></pre></div><button title="Copy to Clipboard" class="code-copy-button"><i class="bi"></i></button></div>
+</details>
+<div class="cell-output-display">
+<div>
+<figure class="figure">
+<p><img src="index_files/figure-html/unnamed-chunk-18-1.png" class="img-fluid figure-img" width="672"></p>
+</figure>
+</div>
+</div>
+</div>
+<div class="cell">
+<details class="code-fold">
+<summary>Code</summary>
+<div class="code-copy-outer-scaffold"><div class="sourceCode cell-code" id="cb26"><pre class="sourceCode r code-with-copy"><code class="sourceCode r"><span id="cb26-1"><a href="#cb26-1" aria-hidden="true" tabindex="-1"></a><span class="fu">ggplot</span>() <span class="sc">+</span> </span>
+<span id="cb26-2"><a href="#cb26-2" aria-hidden="true" tabindex="-1"></a>  <span class="fu">geom_point</span>(<span class="at">data=</span>top_teams, <span class="fu">aes</span>(<span class="at">x=</span>avg_points, <span class="at">y=</span>avg_points_allowed)) <span class="sc">+</span></span>
+<span id="cb26-3"><a href="#cb26-3" aria-hidden="true" tabindex="-1"></a>  <span class="fu">geom_point</span>(<span class="at">data=</span>uno, <span class="fu">aes</span>(<span class="at">x=</span>points_scored_pg, <span class="at">y=</span>points_allowed_pg), <span class="at">color=</span><span class="st">"red"</span>, <span class="at">size=</span><span class="dv">3</span>) <span class="sc">+</span></span>
+<span id="cb26-4"><a href="#cb26-4" aria-hidden="true" tabindex="-1"></a> <span class="fu">labs</span>(</span>
+<span id="cb26-5"><a href="#cb26-5" aria-hidden="true" tabindex="-1"></a>    <span class="at">x=</span><span class="st">"Average Scored Points"</span>, </span>
+<span id="cb26-6"><a href="#cb26-6" aria-hidden="true" tabindex="-1"></a>    <span class="at">y=</span><span class="st">"Average Allowed Points"</span>, </span>
+<span id="cb26-7"><a href="#cb26-7" aria-hidden="true" tabindex="-1"></a>    <span class="at">title=</span><span class="st">"Does a Strong Offense Mean a Strong Defense?"</span>, </span>
+<span id="cb26-8"><a href="#cb26-8" aria-hidden="true" tabindex="-1"></a>    <span class="at">subtitle=</span><span class="st">"Comparing average points scored and points allowed per game among the top 15 scoring teams in women's college basketball, with UNO highlighted in red."</span>, </span>
+<span id="cb26-9"><a href="#cb26-9" aria-hidden="true" tabindex="-1"></a>    <span class="at">caption=</span><span class="st">"Source: Sports-Reference | By Ella Cave"</span></span>
+<span id="cb26-10"><a href="#cb26-10" aria-hidden="true" tabindex="-1"></a>    ) <span class="sc">+</span></span>
+<span id="cb26-11"><a href="#cb26-11" aria-hidden="true" tabindex="-1"></a>  <span class="fu">theme_minimal</span>() <span class="sc">+</span></span>
+<span id="cb26-12"><a href="#cb26-12" aria-hidden="true" tabindex="-1"></a>   <span class="fu">theme</span>(</span>
+<span id="cb26-13"><a href="#cb26-13" aria-hidden="true" tabindex="-1"></a>     <span class="at">plot.title =</span> <span class="fu">element_text</span>(<span class="at">size =</span> <span class="dv">20</span>, <span class="at">face =</span> <span class="st">"bold"</span>), </span>
+<span id="cb26-14"><a href="#cb26-14" aria-hidden="true" tabindex="-1"></a>     <span class="at">axis.title =</span> <span class="fu">element_text</span>(<span class="at">size =</span> <span class="dv">8</span>),</span>
+<span id="cb26-15"><a href="#cb26-15" aria-hidden="true" tabindex="-1"></a>     <span class="at">plot.subtitle =</span> <span class="fu">element_text</span>(<span class="at">size =</span> <span class="dv">10</span>),</span>
+<span id="cb26-16"><a href="#cb26-16" aria-hidden="true" tabindex="-1"></a>     <span class="at">panel.grid.minor =</span> <span class="fu">element_blank</span>(), </span>
+<span id="cb26-17"><a href="#cb26-17" aria-hidden="true" tabindex="-1"></a>     <span class="at">plot.title.position =</span> <span class="st">"plot"</span></span>
+<span id="cb26-18"><a href="#cb26-18" aria-hidden="true" tabindex="-1"></a>   )</span></code></pre></div><button title="Copy to Clipboard" class="code-copy-button"><i class="bi"></i></button></div>
+</details>
+<div class="cell-output-display">
+<div>
+<figure class="figure">
+<p><img src="index_files/figure-html/unnamed-chunk-19-1.png" class="img-fluid figure-img" width="672"></p>
+</figure>
+</div>
+</div>
 </div>
 
 

diff --git a/index.html b/index.html
@@ -379,7 +379,7 @@ window.Quarto = {
 
 <div class="quarto-listing quarto-listing-container-default" id="listing-listing">
 <div class="list quarto-listing-default">
-<div class="quarto-post image-right" data-index="0" data-listing-date-sort="1668319200000" data-listing-file-modified-sort="1794526688130" data-listing-date-modified-sort="NaN" data-listing-reading-time-sort="3" data-listing-word-count-sort="496">
+<div class="quarto-post image-right" data-index="0" data-listing-date-sort="1668319200000" data-listing-file-modified-sort="1794530624484" data-listing-date-modified-sort="NaN" data-listing-reading-time-sort="4" data-listing-word-count-sort="671">
 <div class="thumbnail"><a href="./posts/omaha-womens-basketball/index.html" class="no-external-icon">
 
 <img loading="lazy" src="./posts/omaha-womens-basketball/image.png" class="thumbnail-image">
